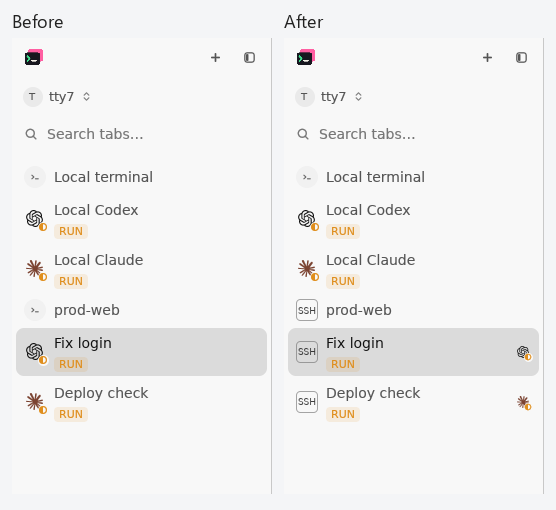
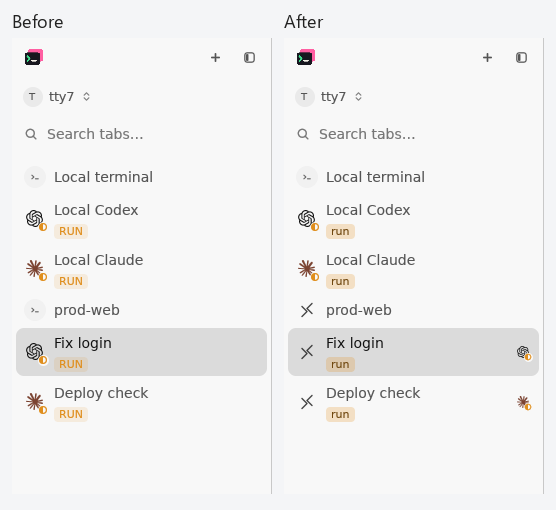
docs(tabs): refresh screenshots for the compact SSH glyph
Show the refined remote symbol in the native tab strip and sidebar
so reviewers can assess its size next to Agent logos.

Refresh the comparison captures and record the tested revisions,
VS Code reference, and independent sidebar styling in the CI merge.

diff --git a/docs/testing/ssh-tab-identity.md b/docs/testing/ssh-tab-identity.md
@@ -11,6 +11,13 @@ light theme, and 1200 by 660 window.
 These images combine crops of native application screenshots. The Before and
 After labels are outside the crops; application pixels have not been redrawn.
 
+SSH uses an unframed pair of opposed chevrons, about 14 pixels in the top strip
+and 16 pixels in the sidebar. The existing avatar slots preserve name alignment.
+Its hover label identifies SSH. The design follows the lightweight remote
+indicator used in [VS Code's Extensions view](https://code.visualstudio.com/docs/remote/ssh#_managing-extensions);
+it is not a protocol brand logo. VS Code keeps the extension's own logo and
+uses a remote badge, while these tabs retain the selected SSH-first layout.
+
 | Session | Before | After |
 | --- | --- | --- |
 | Local terminal | Terminal name | Same terminal name |
@@ -28,10 +35,12 @@ Before source: `90d9a3cb564c63824d15547eaef1f9a4aa4762b2`. The capture runner ov
 entry point and enables its quiet transport helpers; it leaves the baseline
 tab selectors and renderers unchanged.
 
-After source: CI merge `c403cf48f65345b7296076730e07ab28eb5985aa`,
-which includes PR head `9cc1918cccb1291e2132fdb36425f463fbfc77f8`.
+After source: CI merge `a9371caf858d06f0ba643e47604477427012da3e`,
+which includes PR head `41fb6299ef3c43a8257f067aefc54227f7d8d774`.
+It also includes main `5d46af3d`, which changed sidebar status labels to
+lowercase in cloudy-liu/ctty7#123. That label styling is independent of SSH.
 
-[Full PNG captures, source metadata, and logs](https://github.com/cloudy-liu/ctty7/actions/runs/37943304886)
+[Full PNG captures, source metadata, and logs](https://github.com/cloudy-liu/ctty7/actions/runs/37952423042)
 are in the `native-ssh-tabs-before-after` artifact. The capture script checks
 that both windows render nonblank content and that each process exits cleanly.
 
